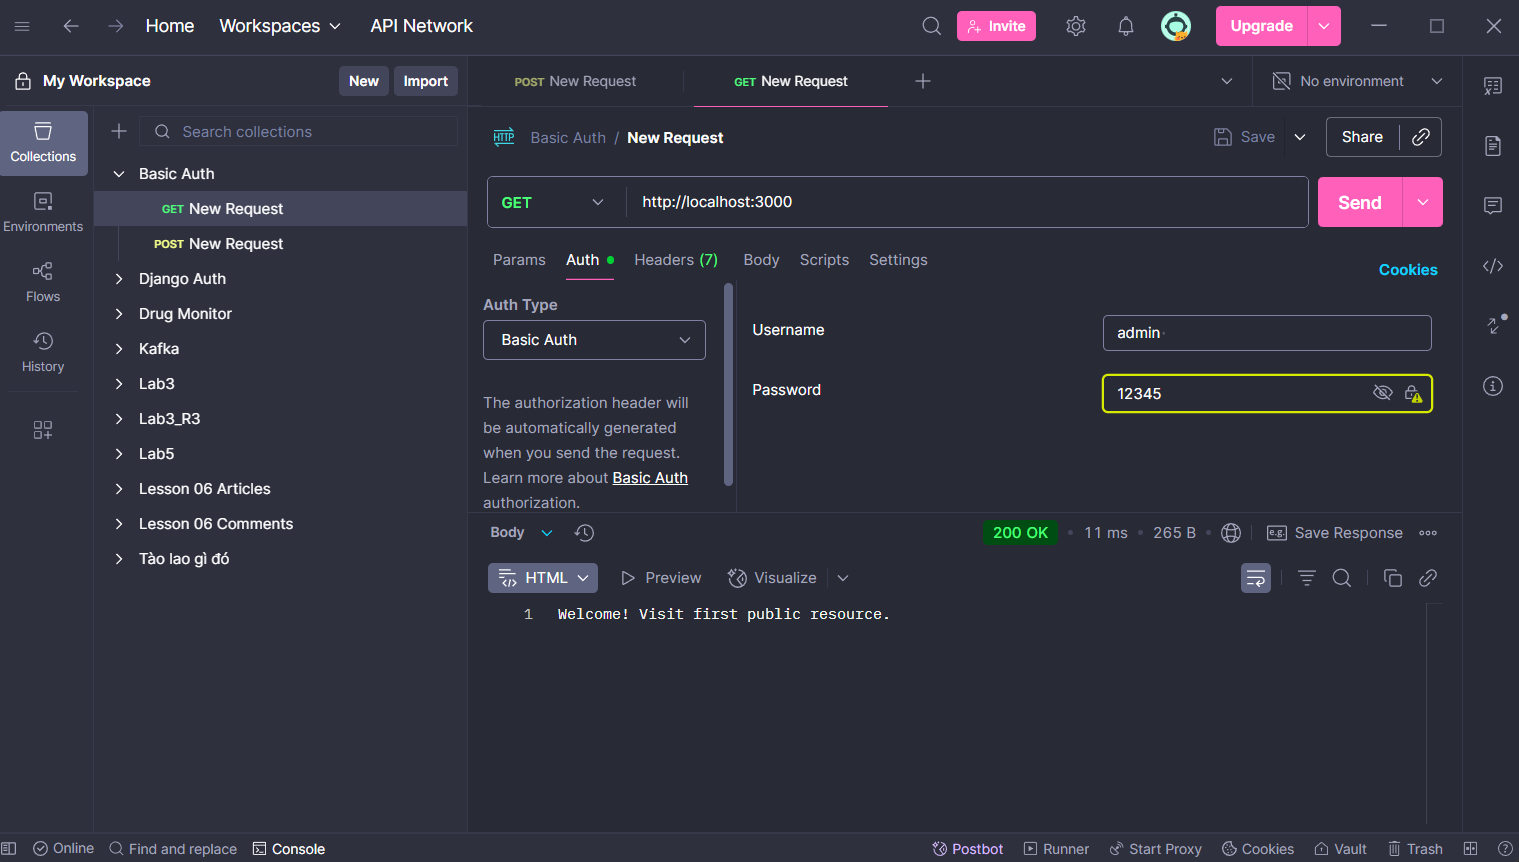
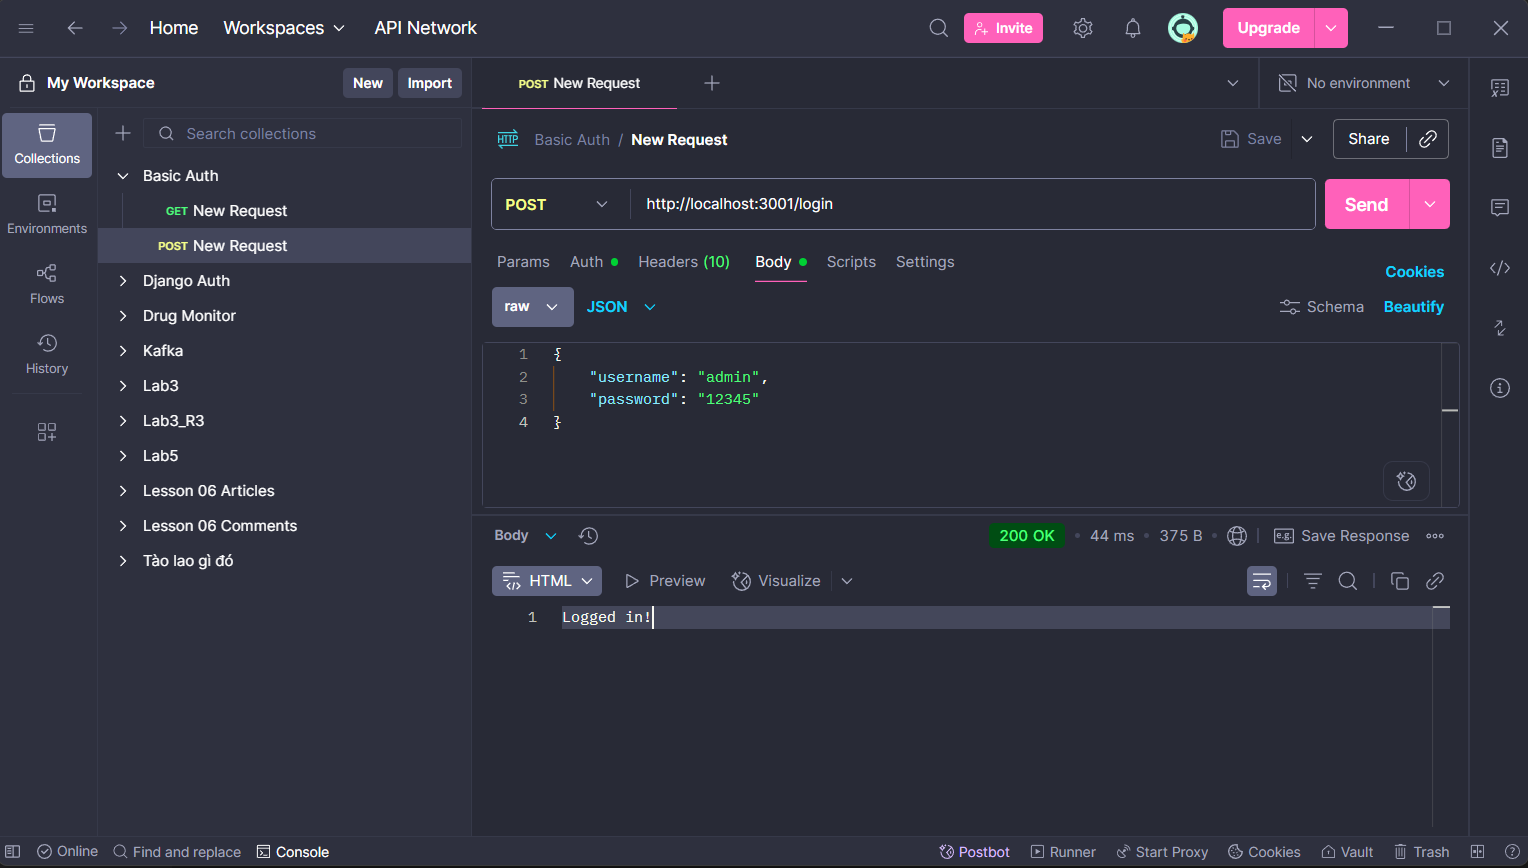
Thêm phần kết quả 2

diff --git a/cookie_auth.js b/cookie_auth.js
@@ -8,6 +8,7 @@ const app = express();
 // Middleware
 app.use(express.json());
 app.use(cookieParser());
+app.use(express.urlencoded({ extended: true }));
 
 // Connect to MongoDB
 mongoose.connect("mongodb://127.0.0.1:27017/cookieApp")
@@ -24,7 +25,7 @@ const cookieSchema = new mongoose.Schema({
 const Cookie = mongoose.model("Cookie", cookieSchema);
 
 // Dummy User (for demo)
-const USERS = [{ id: "1", username: "admin", password: "12345", rolename:"adsys"}];
+const USERS = [{ id: "1", username: "admin", password: "12345", rolename: "adsys" }];
 
 // --- Routes ---
 // Login → set cookie

diff --git a/README.md b/README.md
@@ -10,12 +10,17 @@ Chạy các ví dụ auth đơn giản bằng Node.js + Express.
 
 ## Cài đặt & Chạy
 
-npm i
-node basic_auth.js # ví dụ Basic Auth
-GET http://localhost:3000/
-Kết quả: 200 trả về nội dung public
+- npm i
+- node basic_auth.js # ví dụ Basic Auth
+- GET http://localhost:3000/
+- Kết quả: 200 trả về nội dung public
 
 ![alt text](image-1.png)
 
 # hoặc:
 node cookie_auth.js # ví dụ Cookie (nếu được yêu cầu)
+- POST http://localhost:3001/login
+- Kết quả: 200 trả về nội dung public
+![alt text](image.png)
+
+![alt text](image-1.png)
